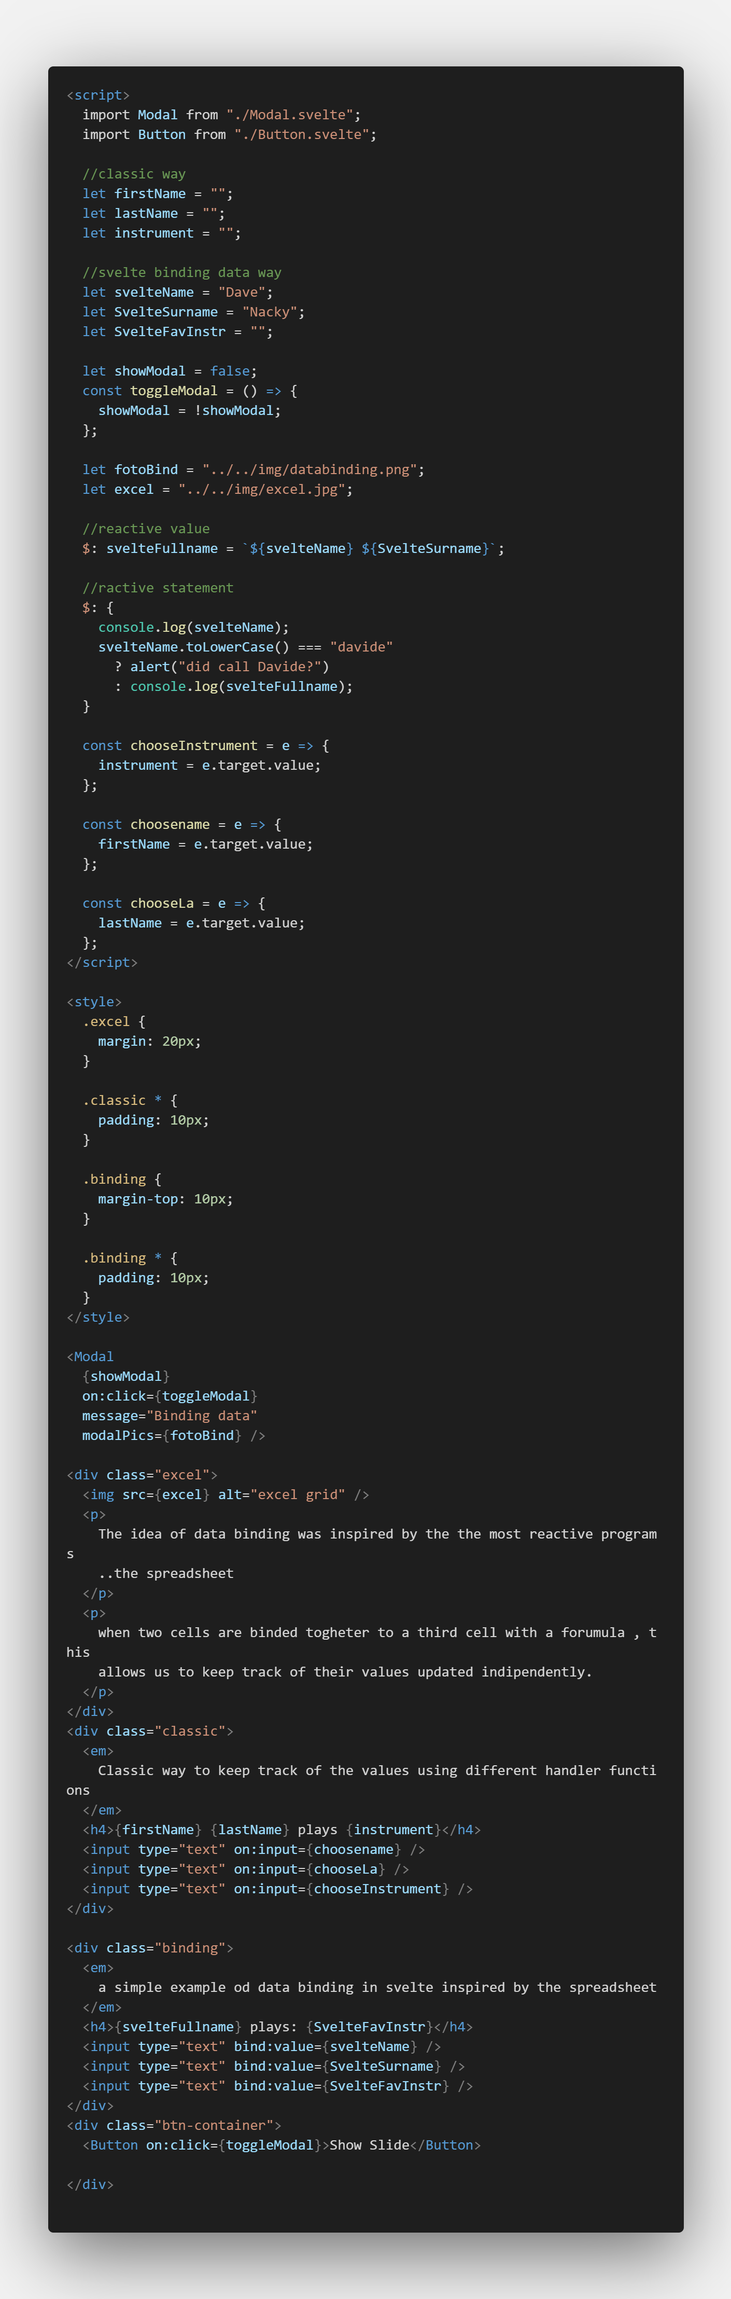
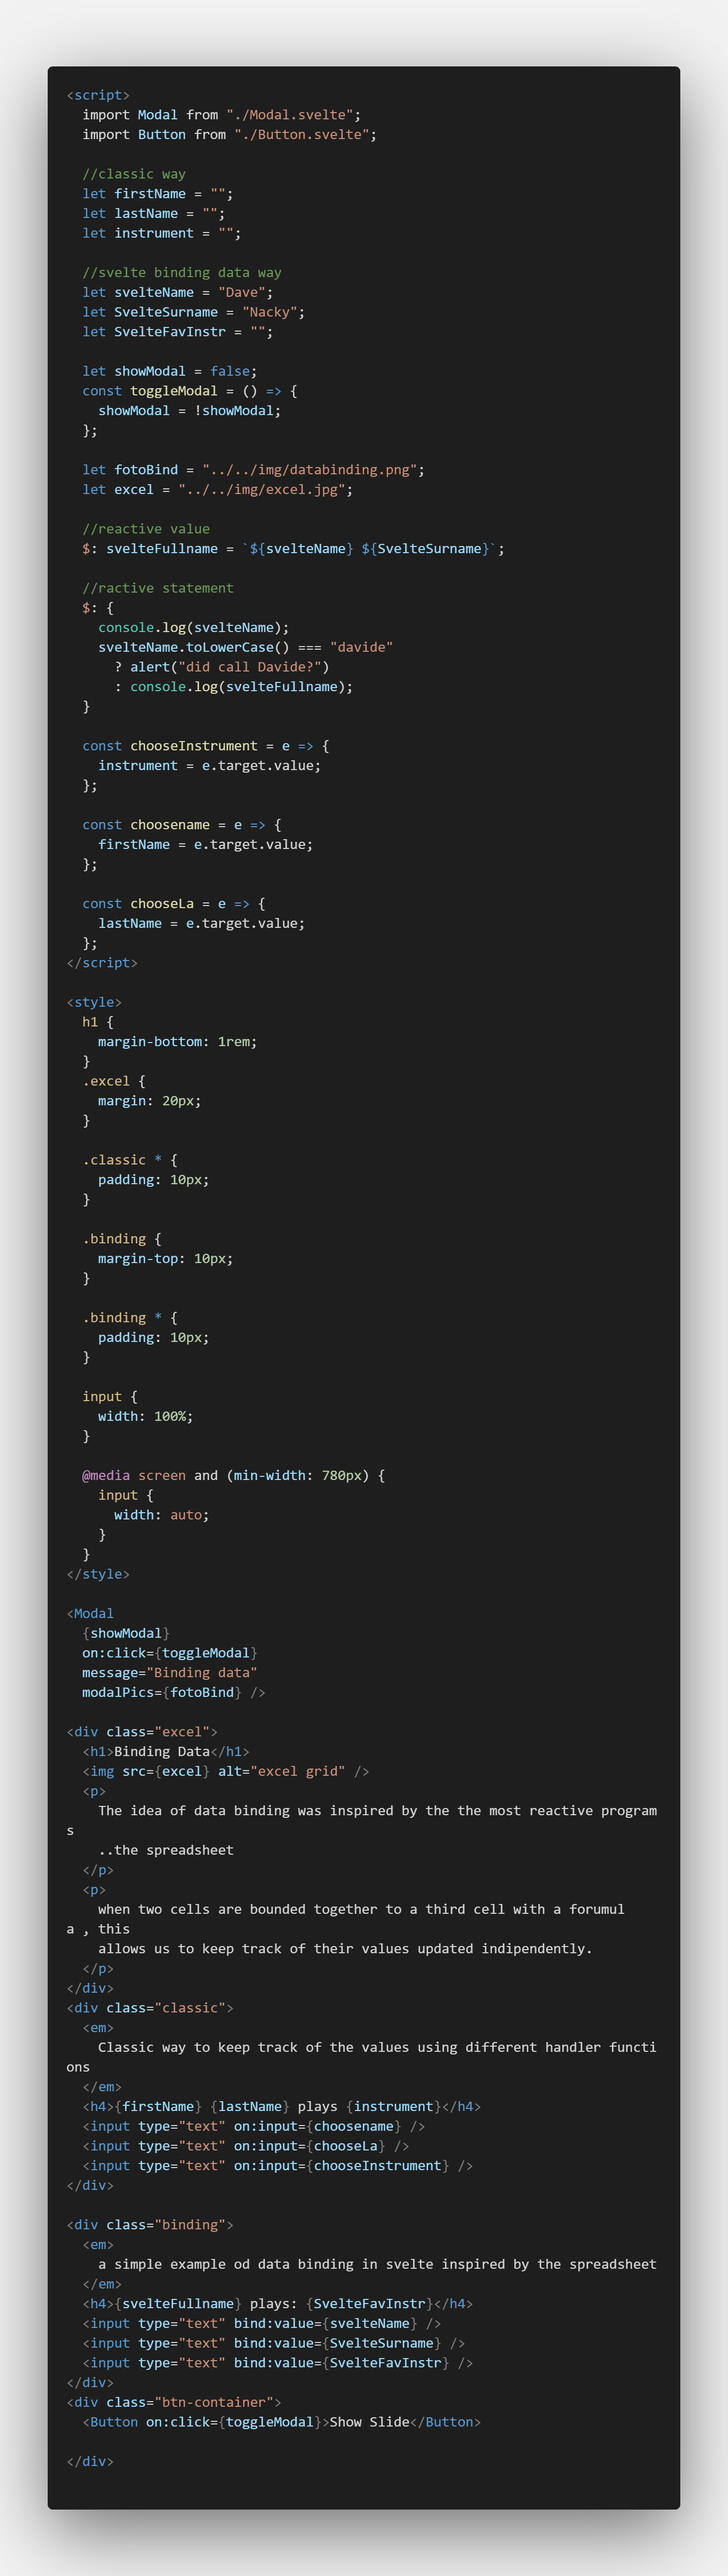
fixes some typos

diff --git a/src/components/Intro.svelte b/src/components/Intro.svelte
@@ -9,11 +9,11 @@
     showModal = !showModal;
   };
 
-  let text = `<li style='padding: 10px'>Svelte is a new framework with the same goal of React, Angular or Vue, with the purpose of build front end applications...but acutally is not a framework but a compiler.</li>
-  <li style='padding: 10px'>Svelte compiles components during the build step and allow us to load a single bundle.js on our page to render our application.</li>
+  let text = `<li style='padding: 10px'>Svelte is a new framework with the same goal as React, Angular or Vue, with the purpose of building front end applications...actually it is not a framework but a compiler.</li>
+  <li style='padding: 10px'>Svelte compiles components during the build step and allows to load a single bundle.js on our page to render our application.</li>
   <img src='../../img/compiler.jpg' alt='compiler' width=200/>
   <li style='padding: 10px'>It doesn't use a Virtual DOM, so we don't have to wait for our components to be rendered from the virtual Dom to the real DOM</li>
-  <li style='padding: 10px'>These things make Svelte one of the fastest "Compiler..framework" nowdays</li>`;
+  <li style='padding: 10px'>These things make Svelte one of the fastest "Compiler..framework" nowadays</li>`;
 </script>
 
 <style>
@@ -35,15 +35,6 @@
   .video {
     width: 100%;
   }
-
-  /* h1 {
-    margin: 5px 0;
-  }
-
-  p {
-    margin: 10px;
-    padding: 10px;
-  } */
 
   @media screen and (min-width: 780px) {
     h1 {
@@ -71,7 +62,7 @@
 <h1>Let's talk about Svelte</h1>
 
 <p>
-  A quick, litghting talk about Svelte, a new
+  A quick litghting talk about Svelte, a new
   <strong>compiler</strong>
   library
 </p>
@@ -81,10 +72,10 @@
     <strong>...50th years ago the umanity</strong>
   </p>
   <p>
-    These are the first words of Rich Harris speech during last year conference
+    These are the first words from Rich Harris speech during last year conference
     about Svelte
   </p>
-  <p>It is very interesting and I highly you recommended to watch it.</p>
+  <p>It is very interesting and highly recommended to watch.</p>
   <Modal {showModal} on:click={toggleModal} message={text} />
   <div class="video">
     <Youtube videoId="AdNJ3fydeao" />

diff --git a/src/components/Components.svelte b/src/components/Components.svelte
@@ -9,13 +9,10 @@
     showModal = !showModal;
   };
 
-  let component =
-    "Components can emit events using , or by forwarding DOM events. Listening for component events looks the same as listening for DOM events:";
 </script>
 
 <style>
   .component {
-    /* width: 100%; */
     margin-top: 25px;
   }
 
@@ -40,25 +37,25 @@
 <div class="component">
   <h1>Components</h1>
   <p>
-    Componets are the building blocks of the websites. They can be used and
-    reused more than one time and customized
+    Components are the building blocks of the websites. They can be used and
+    reused more than once and customized
   </p>
   <p>
-    A componet can be nested and renderd inside other components. So we can have
-    big components like Navbar , Sidebar or Footer that could contain other
-    small componets like cards or buttons
+    A component can be nested and renderd inside other components. So we can have
+    big components like Navbar, Sidebar or Footer that could contain other
+    small components like cards or buttons
   </p>
   <p>
     In Svelte we create components in the src folder, usually if the application
-    is a small one , we gather all the componets in the src folder, buit is a
-    good practice to create at least a components folder inside the src folder.
-    This allows us to keep organized the file structure.
+    is a small one, we gather all the components in the src folder, but it is a
+    good practice to create at least one components folder inside the src folder.
+    This allows to keep the file structure organized.
   </p>
   <p>
-    To create a component in Svelte, we create a new file named with a capitol
-    letter and with the extensione .svelte
+    To create a component in Svelte, we create a new file named with a capital
+    letter and with the extension .svelte
     <br />
-    The file jsut create will contain, a
+    The file just created will contain a &lt;script&gt; tag a &lt;style&gt; tag and the html elements
   </p>
 
 </div>

diff --git a/src/components/Roolup.svelte b/src/components/Roolup.svelte
@@ -48,23 +48,22 @@
   message="Rollup config file"
   modalPics={fotoBind} />
 <div class="conf">
-  <h1>Template , setting and configurations</h1>
+  <h1>Template, setting and configurations</h1>
   <p>
-    ...to create a new application we need to install a svelte/template that
+    ...to create a new application we need to install a sveltejs/template that
     downloads all the files and folders to start our app.
     <br />
-    The structure is very similar to other framework like React, but the size is
+    The structure is very similar to other frameworks like React, but the size is
     lighter than the others.
   </p>
   <p>
     If we also run npm install to grab all the modules folders, we will notice
-    that the size of the application is really less heavy than the one created
+    that the size of the application is much less heavy than the one created
     with create-react-app
   </p>
   <img src={install} alt="install pics" />
   <p>
-    The rollup.config.js file is basically the webpack file in React. Click on
-    the Show Slide button
+    The rollup.config.js file is basically the webpack file in React. 
   </p>
 </div>
 <div class="btn-container">

diff --git a/src/components/InputDataBinding.svelte b/src/components/InputDataBinding.svelte
@@ -27,7 +27,7 @@
   $: {
     console.log(svelteName);
     svelteName.toLowerCase() === "davide"
-      ? alert("did call Davide?")
+      ? alert("Yes it's me")
       : console.log(svelteFullname);
   }
 
@@ -82,14 +82,13 @@
   modalPics={fotoBind} />
 
 <div class="excel">
-  <h1>Binding Data</h1>
+  <h1>Data Binding</h1>
   <img src={excel} alt="excel grid" />
   <p>
-    The idea of data binding was inspired by the the most reactive programs
-    ..the spreadsheet
+    The idea of data binding was inspired by the the most reactive programs...the spreadsheet
   </p>
   <p>
-    when two cells are binded togheter to a third cell with a forumula , this
+    when two cells are bound together to a third cell with a formula, this
     allows us to keep track of their values updated indipendently.
   </p>
 </div>
@@ -105,7 +104,7 @@
 
 <div class="binding">
   <em>
-    a simple example od data binding in svelte inspired by the spreadsheet
+    a simple example of data binding in svelte inspired by the spreadsheet
   </em>
   <h4>{svelteFullname} plays: {SvelteFavInstr}</h4>
   <input type="text" bind:value={svelteName} />

diff --git a/src/components/FormCreate.svelte b/src/components/FormCreate.svelte
@@ -1,6 +1,8 @@
 <script>
   import { createEventDispatcher } from "svelte";
   import Button from "./Button.svelte";
+  import Modal from "./Modal.svelte";
+
   const dispatch = createEventDispatcher();
 
   let name;
@@ -21,6 +23,13 @@
     console.log(name, lastname, age, genres, instrument);
     dispatch("addPerson", person);
   };
+
+  let showModal = false;
+  const toggleModal = () => {
+    showModal = !showModal;
+  };
+
+  let formComponent = "../../img/createformcomponent.png";
 </script>
 
 <style>
@@ -55,6 +64,8 @@
   }
 </style>
 
+<Modal {showModal} on:click={toggleModal} modalPics={formComponent} />
+
 <form on:submit|preventDefault={handleSubmit}>
   <input type="text" placeholder="name" bind:value={name} />
   <input type="text" placeholder="lastname" bind:value={lastname} />
@@ -75,6 +86,7 @@
     Jazz
   </div>
 
+
   <br />
   <label>Instruments</label>
   <select bind:value={instrument}>
@@ -87,3 +99,6 @@
 
   <Button type="secondary reverse">Add Person</Button>
 </form>
+<div class="btn-container">
+  <Button on:click={toggleModal} type="secondary">Show Form Code</Button>
+</div>

diff --git a/src/components/Form.svelte b/src/components/Form.svelte
@@ -5,6 +5,7 @@
   import Form from "./FormCreate.svelte";
   import Card from "./Card.svelte";
 
+  
   const dispatch = createEventDispatcher();
 
   let people = [];
@@ -18,41 +19,14 @@
     people = [person, ...people];
     console.log(people);
   };
+
+  
 </script>
 
 <style>
-  form {
-    width: 100%;
-    margin: 0 auto;
-    text-align: center;
-  }
 
-  .form-field {
-    margin: 0 auto;
-  }
-
-  input {
-    width: 100%;
-    border-radius: 3px;
-    height: 30px;
-    border: 1px solid grey;
-  }
-
-  label {
-    margin: 10px auto;
-  }
-
-  @media only screen and (min-width: 780px) {
-    form {
-      width: 400px;
-      text-align: left;
-    }
-
-    .form-field {
-      margin: 18px auto;
-    }
-  }
 </style>
+
 
 <Modal {showModal} on:click={toggleModal} message="Form">
   <div class="person">
@@ -74,7 +48,7 @@
 </Modal>
 
 <Form on:addPerson={addPerson} />
-
 <div class="btn-container">
   <Button on:click={toggleModal}>Show Slide</Button>
 </div>
+

diff --git a/src/App.svelte b/src/App.svelte
@@ -8,13 +8,12 @@
   import Rollup from "./components/Roolup.svelte";
   import ReactiveValues from "./components/ReactiveValues.svelte";
   import Components from "./components/Components.svelte";
-  import FetchonMount from "./components/FetchOnmount.svelte";
   import Intro from "./components/Intro.svelte";
 
   let items = [
     "What is Svelte",
     "Template Creation",
-    "Binding Data",
+    "Data Binding",
     "Components",
     "Form"
   ];
@@ -56,14 +55,12 @@
     <Intro />
   {:else if showItem === 'Template Creation'}
     <Rollup />
-  {:else if showItem === 'Binding Data'}
+  {:else if showItem === 'Data Binding'}
     <InputDataBinding />
   {:else if showItem === 'Components'}
     <Components />
   {:else if showItem === 'Form'}
     <Form />
-  {:else if showItem === 'Fetch and OnMount'}
-    <FetchonMount />
   {/if}
 
 </section>
